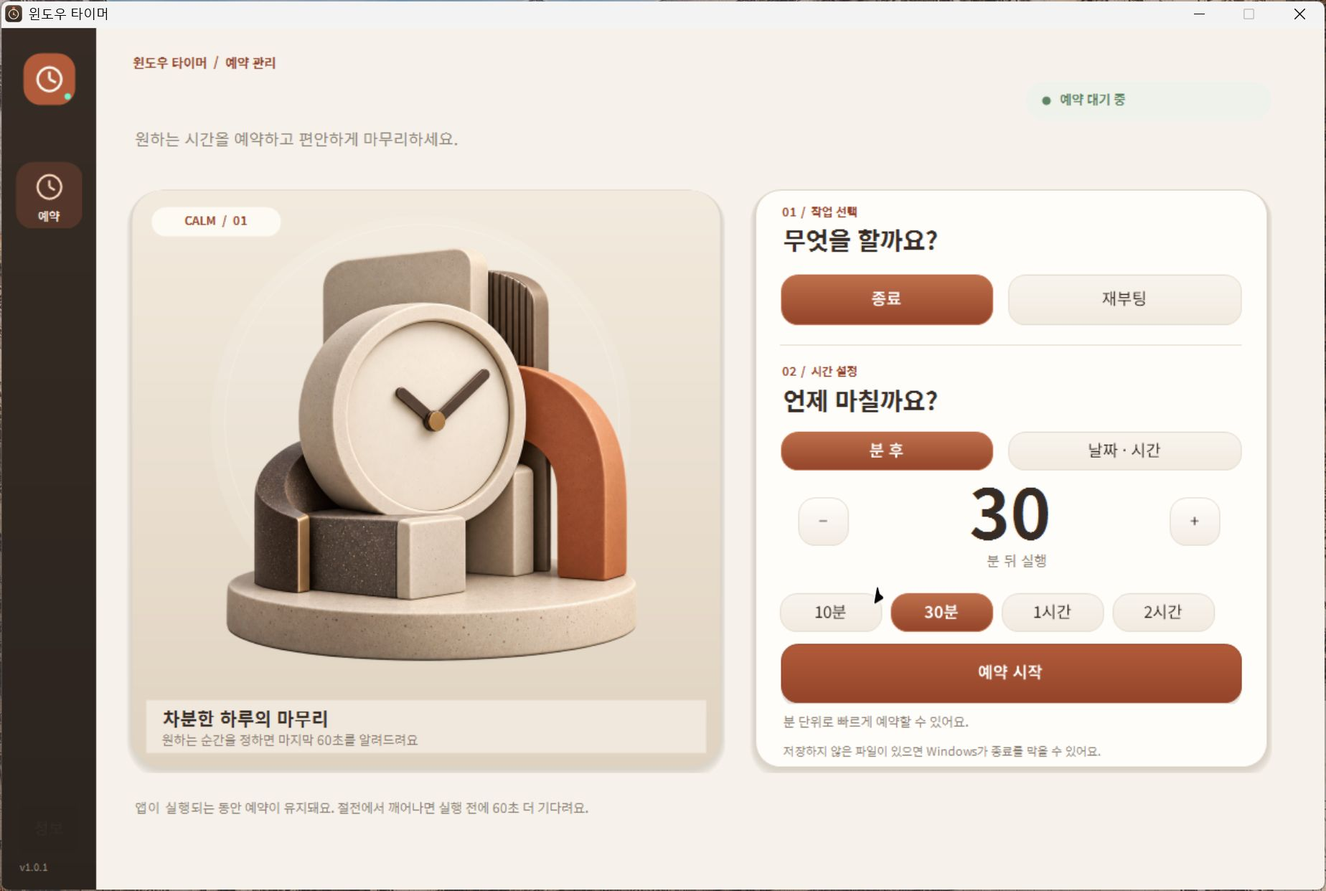
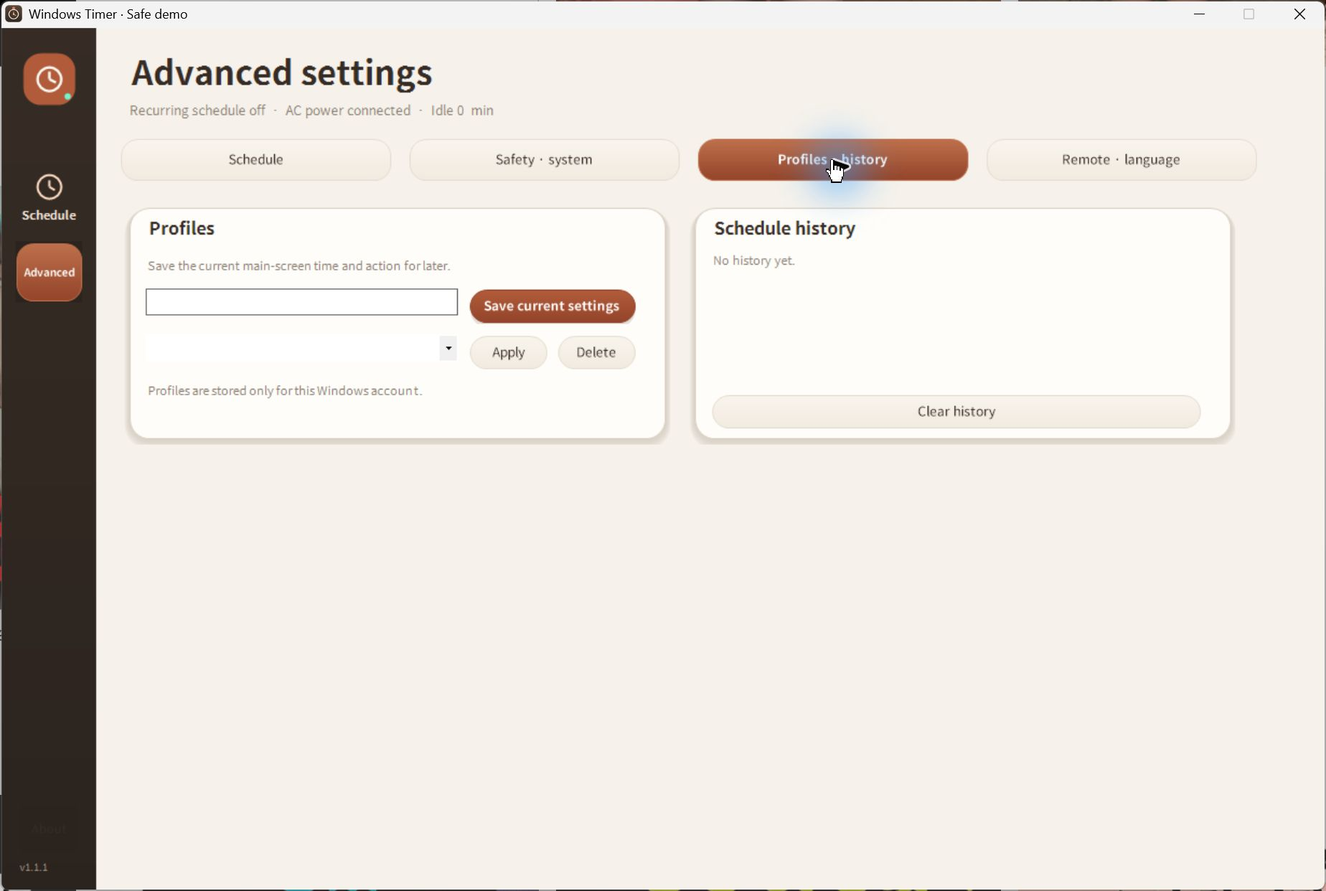
fix: align advanced setting cards

diff --git a/Program.cs b/Program.cs
@@ -136,7 +136,7 @@ namespace WindowsTimer {
    if(!Enabled){fg=Color.FromArgb(156,148,139);top=Color.FromArgb(243,239,232);bottom=top;border=Color.FromArgb(235,229,221);}
    if(primary&&!down){using(SolidBrush shadow=new SolidBrush(Color.FromArgb(38,82,50,37))){using(GraphicsPath sp=Shape.RoundRect(new Rectangle(r.X,r.Y+4,r.Width,r.Height),radius))g.FillPath(shadow,sp);}}
    using(GraphicsPath p=Shape.RoundRect(r,radius)) {using(LinearGradientBrush b=new LinearGradientBrush(r,top,bottom,90f))g.FillPath(b,p);using(Pen pen=new Pen(border,1))g.DrawPath(pen,p);}
-   Rectangle textRect=r;if(down)textRect.Offset(0,1);using(Font f=UIFont.Make(11,Selected||primary?FontStyle.Bold:FontStyle.Regular))using(SolidBrush brush=new SolidBrush(fg))using(StringFormat sf=new StringFormat()){sf.Alignment=StringAlignment.Center;sf.LineAlignment=StringAlignment.Center;sf.Trimming=StringTrimming.EllipsisCharacter;g.DrawString(Text,f,brush,textRect,sf);}
+   Rectangle textRect=r;if(down)textRect.Offset(0,1);float fontSize=Font==null?11f:Font.Size;FontStyle textStyle=Selected||primary?FontStyle.Bold:FontStyle.Regular;while(fontSize>7.5f){using(Font measure=UIFont.Make(fontSize,textStyle)){if(g.MeasureString(Text,measure).Width<=textRect.Width-12)break;}fontSize=Math.Max(7.5f,fontSize-0.5f);}using(Font f=UIFont.Make(fontSize,textStyle))using(SolidBrush brush=new SolidBrush(fg))using(StringFormat sf=new StringFormat()){sf.Alignment=StringAlignment.Center;sf.LineAlignment=StringAlignment.Center;sf.Trimming=StringTrimming.EllipsisCharacter;sf.FormatFlags=StringFormatFlags.NoWrap;g.DrawString(Text,f,brush,textRect,sf);}
    if(Focused&&ShowFocusCues){Rectangle focus=r;focus.Inflate(-5,-5);using(Pen p=new Pen(Color.FromArgb(130,Palette.Brown))){p.DashPattern=new float[]{2,2};using(GraphicsPath path=Shape.RoundRect(focus,Math.Max(4,radius-4)))g.DrawPath(p,path);}}
   }
  }
@@ -146,7 +146,7 @@ namespace WindowsTimer {
  }
 
  sealed class CardPanel : Panel {
-  public Color PanelTop=Palette.Paper, PanelBottom=Palette.Paper; public int Radius=24;
+  public Color PanelTop=Palette.Paper, PanelBottom=Palette.Paper; public int Radius=24; public string Group;
   public CardPanel(){SetStyle(ControlStyles.UserPaint|ControlStyles.AllPaintingInWmPaint|ControlStyles.OptimizedDoubleBuffer|ControlStyles.ResizeRedraw,true);BackColor=Palette.Paper;}
   protected override void OnPaintBackground(PaintEventArgs e){Graphics g=e.Graphics;g.SmoothingMode=SmoothingMode.AntiAlias;g.Clear(Palette.Canvas);Rectangle r=ClientRectangle;r.Inflate(-5,-6);for(int i=5;i>=1;i--){Rectangle sh=r;sh.Offset(0,i);sh.Inflate(i,i);using(SolidBrush b=new SolidBrush(Color.FromArgb(3+i*2,75,54,41)))using(GraphicsPath p=Shape.RoundRect(sh,Radius+i))g.FillPath(b,p);}using(GraphicsPath p=Shape.RoundRect(r,Radius))using(LinearGradientBrush b=new LinearGradientBrush(r,PanelTop,PanelBottom,90f))g.FillPath(b,p);using(GraphicsPath p=Shape.RoundRect(r,Radius))using(Pen pen=new Pen(Color.FromArgb(218,208,194),1))g.DrawPath(pen,p);}
  }
@@ -180,6 +180,7 @@ namespace WindowsTimer {
   SoftButton shutdownButton,restartButton,relativeButton,dateButton,minusButton,plusButton,p10,p30,p60,p120,mainButton,cancelButton,extendButton,infoButton,advancedNav;
   DateTimePicker datePicker; HeroPanel heroPanel; Image heroImage; NotifyIcon tray; System.Windows.Forms.Timer timer; DateTime lastTick=DateTime.Now,lastAdvancedRefresh=DateTime.MinValue;
   Panel advancedView; FlowLayoutPanel advancedFlow; Label advancedHint,historyList,remoteInfo; ComboBox repeatMode,repeatAction,languageBox,profileBox;
+  readonly List<SoftButton> advancedTabButtons=new List<SoftButton>(); string advancedTab="일정";
   DateTimePicker repeatTime; CheckBox repeatEnabled,guardBattery,requireAC,requireIdle,startWithWindows,wakeEnabled,trayCountdown,remoteEnabled;
   readonly List<CheckBox> repeatDayBoxes=new List<CheckBox>();
   NumericUpDown batteryLimit,idleMinutes,guardTimeout; TextBox presetInputs,profileName;
@@ -203,15 +204,17 @@ namespace WindowsTimer {
   CheckBox AdvCheck(Control p,string text,int x,int y,int w,int h,bool value){CheckBox c=new CheckBox{Text=T(text),Tag=text,Checked=value,Location=new Point(x,y),Size=new Size(w,h),BackColor=Color.Transparent,ForeColor=Palette.Ink,Font=UIFont.Make(9,FontStyle.Regular),FlatStyle=FlatStyle.Flat,AutoSize=false};p.Controls.Add(c);return c;}
   NumericUpDown AdvNumber(Control p,int x,int y,int w,int min,int max,int value){NumericUpDown n=new NumericUpDown{Location=new Point(x,y),Size=new Size(w,30),Minimum=min,Maximum=max,Value=Math.Max(min,Math.Min(max,value)),Font=UIFont.Make(9,FontStyle.Regular),TextAlign=HorizontalAlignment.Center,BackColor=Palette.Paper,ForeColor=Palette.Brown};p.Controls.Add(n);return n;}
   ComboBox AdvCombo(Control p,int x,int y,int w,params string[] items){ComboBox c=new ComboBox{Location=new Point(x,y),Size=new Size(w,30),DropDownStyle=ComboBoxStyle.DropDownList,Font=UIFont.Make(9,FontStyle.Regular),FlatStyle=FlatStyle.Flat,Tag=(object)items.Clone()};foreach(string item in items)c.Items.Add(item);if(c.Items.Count>0)c.SelectedIndex=0;p.Controls.Add(c);return c;}
-  CardPanel AdvCard(string title,int height){CardPanel p=new CardPanel{Size=new Size(507,height),Radius=18,Margin=new Padding(0,0,18,18),Padding=new Padding(16),BackColor=Palette.Paper};AdvLabel(p,title,20,12,450,25,12,Palette.Brown,FontStyle.Bold);return p;}
+  CardPanel AdvCard(string title,int height,string group){CardPanel p=new CardPanel{Size=new Size(507,height),Radius=18,Margin=new Padding(0,0,18,18),Padding=new Padding(16),BackColor=Palette.Paper,Group=group};AdvLabel(p,title,20,12,450,25,12,Palette.Brown,FontStyle.Bold);return p;}
   SoftButton AdvButton(Control p,string text,int x,int y,int w,EventHandler click,ButtonTone tone){SoftButton b=AddButton(p,text,x,y,w,34,tone,click);b.Font=UIFont.Make(9,FontStyle.Bold);return b;}
   void BuildAdvanced(){
    advancedView=new Panel{Location=new Point(88,0),Size=new Size(ClientSize.Width-88,ClientSize.Height),BackColor=Palette.Canvas,Visible=false,Anchor=AnchorStyles.Top|AnchorStyles.Bottom|AnchorStyles.Left|AnchorStyles.Right};Controls.Add(advancedView);
    AdvLabel(advancedView,"고급 설정",28,22,500,38,23,Palette.Brown,FontStyle.Bold);
    advancedHint=AdvLabel(advancedView,"반복 예약과 안전 조건을 설정해요. 메인 예약 화면은 현재 설정을 그대로 유지합니다.",29,62,1015,28,9,Palette.Muted,FontStyle.Regular);
-   advancedFlow=new FlowLayoutPanel{Location=new Point(22,101),Size=new Size(advancedView.Width-40,advancedView.Height-115),AutoScroll=true,WrapContents=true,FlowDirection=FlowDirection.LeftToRight,BackColor=Palette.Canvas,Padding=new Padding(4),Anchor=AnchorStyles.Top|AnchorStyles.Bottom|AnchorStyles.Left|AnchorStyles.Right};advancedView.Controls.Add(advancedFlow);
+   string[] tabGroups={"일정","보호 · 시스템","프로필 · 기록","원격 · 언어"};
+   for(int i=0;i<tabGroups.Length;i++){string group=tabGroups[i];SoftButton tab=AddButton(advancedView,group,22+i*268,101,252,42,ButtonTone.Soft,delegate{SelectAdvancedTab(group);});tab.Font=UIFont.Make(9,FontStyle.Bold);tab.AccessibleRole=AccessibleRole.PageTab;tab.AccessibleName=group;advancedTabButtons.Add(tab);}
+   advancedFlow=new FlowLayoutPanel{Location=new Point(22,157),Size=new Size(advancedView.Width-40,advancedView.Height-171),AutoScroll=true,WrapContents=true,FlowDirection=FlowDirection.LeftToRight,BackColor=Palette.Canvas,Padding=new Padding(4),Anchor=AnchorStyles.Top|AnchorStyles.Bottom|AnchorStyles.Left|AnchorStyles.Right};advancedView.Controls.Add(advancedFlow);
 
-   CardPanel recurring=AdvCard("반복 일정",220);advancedFlow.Controls.Add(recurring);
+   CardPanel recurring=AdvCard("반복 일정",220,"일정");advancedFlow.Controls.Add(recurring);
    repeatEnabled=AdvCheck(recurring,"매일 또는 선택한 요일에 반복 실행",20,48,455,28,settings.RepeatEnabled);
    repeatMode=AdvCombo(recurring,20,83,140,"매일","요일 선택");repeatMode.SelectedItem=settings.RepeatMode=="요일 선택"?"요일 선택":"매일";
    TimeSpan savedRepeatTime; if(!TimeSpan.TryParse(settings.RepeatTime,out savedRepeatTime))savedRepeatTime=new TimeSpan(23,0,0);
@@ -221,12 +224,12 @@ namespace WindowsTimer {
    AdvButton(recurring,"반복 일정 저장",20,153,455,delegate{SaveRepeat();},ButtonTone.Primary);
    AdvLabel(recurring,"다음 실행은 60초 알림과 취소 기능을 거쳐요.",20,190,455,19,8,Palette.Muted,FontStyle.Regular);
 
-   CardPanel preset=AdvCard("빠른 시간 버튼",177);advancedFlow.Controls.Add(preset);
+   CardPanel preset=AdvCard("빠른 시간 버튼",177,"일정");advancedFlow.Controls.Add(preset);
    AdvLabel(preset,"메인 화면의 네 버튼에 표시할 분 단위를 입력하세요. 예: 10, 30, 60, 120",20,46,455,34,8,Palette.Muted,FontStyle.Regular);
    presetInputs=new TextBox{Location=new Point(20,88),Size=new Size(455,34),Text=String.Join(", ",settings.Presets),Font=UIFont.Make(10,FontStyle.Regular),BorderStyle=BorderStyle.FixedSingle};preset.Controls.Add(presetInputs);
    AdvButton(preset,"빠른 시간 저장",20,132,455,delegate{SavePresets();},ButtonTone.Primary);
 
-   CardPanel conditions=AdvCard("전원 · 사용 상태 보호",246);advancedFlow.Controls.Add(conditions);
+   CardPanel conditions=AdvCard("전원 · 사용 상태 보호",246,"보호 · 시스템");advancedFlow.Controls.Add(conditions);
    guardBattery=AdvCheck(conditions,"배터리 잔량이 기준보다 낮으면 대기",20,48,310,26,settings.GuardBattery);
    batteryLimit=AdvNumber(conditions,353,47,112,5,90,settings.BatteryLimit);AdvLabel(conditions,"기준 %",469,49,24,23,8,Palette.Muted,FontStyle.Regular);
    requireAC=AdvCheck(conditions,"AC 전원이 연결되어 있을 때만 실행",20,82,455,26,settings.RequireAC);
@@ -236,21 +239,21 @@ namespace WindowsTimer {
    AdvButton(conditions,"보호 조건 저장",20,190,455,delegate{SaveConditions();},ButtonTone.Primary);
    AdvLabel(conditions,"조건을 충족하지 못하면 예약을 보류하고 제한 시간 후 취소해요.",20,222,455,18,8,Palette.Muted,FontStyle.Regular);
 
-   CardPanel system=AdvCard("Windows · 알림 설정",220);advancedFlow.Controls.Add(system);
+   CardPanel system=AdvCard("Windows · 알림 설정",220,"보호 · 시스템");advancedFlow.Controls.Add(system);
    startWithWindows=AdvCheck(system,"Windows 로그인 시 자동 실행",20,48,455,26,settings.StartWithWindows);
    wakeEnabled=AdvCheck(system,"절전 중 예약 시각에 PC 깨우기",20,82,455,26,settings.WakeEnabled);
    trayCountdown=AdvCheck(system,"작업 표시줄 아이콘에 남은 시간 표시",20,116,455,26,settings.TrayCountdown);
    AdvLabel(system,"깨우기는 PC·BIOS의 절전 타이머 지원이 필요해요.",20,149,455,22,8,Palette.Muted,FontStyle.Regular);
    AdvButton(system,"Windows 설정 저장",20,177,455,delegate{SaveSystemOptions();},ButtonTone.Primary);
 
-   CardPanel sleep=AdvCard("한 번 예약 · 다른 동작",180);advancedFlow.Controls.Add(sleep);
+   CardPanel sleep=AdvCard("한 번 예약 · 다른 동작",180,"일정");advancedFlow.Controls.Add(sleep);
    AdvLabel(sleep,"종료·재부팅 외에도 절전과 최대 절전을 예약할 수 있어요.",20,47,455,29,8,Palette.Muted,FontStyle.Regular);
    ComboBox onceAction=AdvCombo(sleep,20,83,180,"종료","재부팅","절전","최대 절전");
    NumericUpDown onceMinutes=AdvNumber(sleep,215,83,100,1,10080,30);AdvLabel(sleep,"분 뒤",323,85,80,25,8,Palette.Muted,FontStyle.Regular);
    AdvButton(sleep,"이 동작 예약",20,124,455,delegate{selectedAction=Canonical((string)onceAction.SelectedItem);minutes=(int)onceMinutes.Value;relative=true;StartJob();ShowMain();},ButtonTone.Primary);
    AdvLabel(sleep,"한 번 예약도 메인 화면에서 취소하거나 10분 연장할 수 있어요.",20,160,455,18,8,Palette.Muted,FontStyle.Regular);
 
-   CardPanel profiles=AdvCard("프로필",205);advancedFlow.Controls.Add(profiles);
+   CardPanel profiles=AdvCard("프로필",205,"프로필 · 기록");advancedFlow.Controls.Add(profiles);
    AdvLabel(profiles,"현재 메인 화면의 시간과 동작을 저장해 나중에 다시 적용해요.",20,46,455,29,8,Palette.Muted,FontStyle.Regular);
    profileName=new TextBox{Location=new Point(20,81),Size=new Size(290,30),Font=UIFont.Make(9,FontStyle.Regular),BorderStyle=BorderStyle.FixedSingle};profiles.Controls.Add(profileName);
    AdvButton(profiles,"현재 설정 저장",320,80,155,delegate{SaveProfile();},ButtonTone.Primary);
@@ -259,18 +262,18 @@ namespace WindowsTimer {
    AdvButton(profiles,"삭제",402,123,73,delegate{DeleteProfile();},ButtonTone.Soft);
    AdvLabel(profiles,"프로필은 이 Windows 사용자 계정에만 저장돼요.",20,166,455,20,8,Palette.Muted,FontStyle.Regular);
 
-   CardPanel history=AdvCard("예약 기록",226);advancedFlow.Controls.Add(history);
+   CardPanel history=AdvCard("예약 기록",226,"프로필 · 기록");advancedFlow.Controls.Add(history);
    historyList=AdvLabel(history,"아직 기록이 없어요.",20,47,455,125,8,Palette.Muted,FontStyle.Regular);historyList.TextAlign=ContentAlignment.TopLeft;
    AdvButton(history,"기록 지우기",20,178,455,delegate{settings.History.Clear();SaveSettings();RefreshHistory();},ButtonTone.Soft);RefreshHistory();
 
-   CardPanel language=AdvCard("언어 · 업데이트",177);advancedFlow.Controls.Add(language);
+   CardPanel language=AdvCard("언어 · 업데이트",177,"원격 · 언어");advancedFlow.Controls.Add(language);
    AdvLabel(language,"화면 언어",20,48,100,26,9,Palette.Ink,FontStyle.Regular);
    languageBox=AdvCombo(language,125,46,170,"한국어","English","日本語","简体中文");languageBox.SelectedItem=settings.Language;
    AdvButton(language,"언어 적용",310,45,165,delegate{settings.Language=Canonical((string)languageBox.SelectedItem);SaveSettings();ApplyLanguage();},ButtonTone.Primary);
    AdvLabel(language,"새 버전은 비공개 GitHub 릴리스에서 확인할 수 있어요.",20,88,455,25,8,Palette.Muted,FontStyle.Regular);
    AdvButton(language,"새 버전 확인",20,122,455,delegate{try{Process.Start(new ProcessStartInfo("https://github.com/cybereun/windows-timer/releases"){UseShellExecute=true});}catch{}},ButtonTone.Soft);
 
-   CardPanel remote=AdvCard("휴대폰 · 다른 PC에서 원격 예약",323);advancedFlow.Controls.Add(remote);
+   CardPanel remote=AdvCard("휴대폰 · 다른 PC에서 원격 예약",323,"원격 · 언어");advancedFlow.Controls.Add(remote);
    remoteEnabled=AdvCheck(remote,"같은 네트워크 또는 VPN에서 원격 접속 허용",20,48,455,26,settings.RemoteEnabled);
    remoteInfo=AdvLabel(remote,"원격 서버가 꺼져 있어요.",20,80,455,107,8,Palette.Muted,FontStyle.Regular);remoteInfo.TextAlign=ContentAlignment.TopLeft;
    AdvButton(remote,"첫 번째 연결 주소 복사",20,192,455,delegate{CopyRemoteAddress();},ButtonTone.Soft);
@@ -282,7 +285,9 @@ namespace WindowsTimer {
    trayCountdown.CheckedChanged+=delegate{settings.TrayCountdown=trayCountdown.Checked;SaveSettings();RefreshView(null);};
    wakeEnabled.CheckedChanged+=delegate{settings.WakeEnabled=wakeEnabled.Checked;SaveSettings();UpdateWakeTask();};
    remoteEnabled.CheckedChanged+=delegate{settings.RemoteEnabled=remoteEnabled.Checked;SaveSettings();if(settings.RemoteEnabled)StartRemoteServer(true);else{remoteServer.Stop();RefreshRemoteInfo();}};
+   SelectAdvancedTab(advancedTab);
   }
+  void SelectAdvancedTab(string group){if(String.IsNullOrEmpty(group))return;advancedTab=group;if(advancedFlow!=null){int groupHeight=0;foreach(Control c in advancedFlow.Controls){CardPanel card=c as CardPanel;if(card!=null&&card.Group==group)groupHeight=Math.Max(groupHeight,card.Height);}advancedFlow.SuspendLayout();foreach(Control c in advancedFlow.Controls){CardPanel card=c as CardPanel;if(card!=null){if(card.Group==group)card.Height=groupHeight;card.Visible=card.Group==group;}}advancedFlow.AutoScrollPosition=new Point(0,0);advancedFlow.ResumeLayout(true);}foreach(SoftButton tab in advancedTabButtons){bool selected=tab.Tag as string==group;tab.Selected=selected;tab.AccessibleName=tab.Text;}}
   void ShowMain(){showingAdvanced=false;advancedView.Visible=false;foreach(Control c in mainContent)c.Visible=true;advancedNav.Selected=false;InvalidateNavigation();}
   void ShowAdvanced(){showingAdvanced=true;foreach(Control c in mainContent)c.Visible=false;advancedView.Visible=true;advancedView.BringToFront();advancedNav.Selected=true;RefreshAdvancedStatus();RefreshRemoteInfo();InvalidateNavigation();}
   void InvalidateNavigation(){if(advancedNav!=null)advancedNav.Invalidate();foreach(Control c in Controls)InvalidateNavigationChild(c);}
@@ -314,7 +319,7 @@ namespace WindowsTimer {
    Panel nav=new Panel{Location=new Point(13,124),Size=new Size(62,62),BackColor=Color.Transparent,Cursor=Cursors.Hand,AccessibleName="예약"};nav.Paint+=delegate(object s,PaintEventArgs e){Graphics g=e.Graphics;g.SmoothingMode=SmoothingMode.AntiAlias;using(GraphicsPath p=Shape.RoundRect(new Rectangle(0,0,62,62),16))using(SolidBrush b=new SolidBrush(showingAdvanced?Color.Transparent:Color.FromArgb(64,Palette.Clay)))g.FillPath(b,p);using(Pen p=new Pen(Color.FromArgb(255,218,194),2f)){g.DrawEllipse(p,20,12,22,22);g.DrawLine(p,31,17,31,23);g.DrawLine(p,31,23,36,26);}using(Font f=UIFont.Make(8,FontStyle.Bold))using(SolidBrush b=new SolidBrush(Color.FromArgb(250,232,218)))using(StringFormat sf=new StringFormat()){sf.Alignment=StringAlignment.Center;sf.LineAlignment=StringAlignment.Far;g.DrawString(T("예약"),f,b,new RectangleF(0,0,62,59),sf);}};nav.Click+=delegate{ShowMain();};nav.MouseClick+=delegate{ShowMain();};rail.Controls.Add(nav);
    advancedNav=AddButton(rail,"고급",13,198,62,57,ButtonTone.Soft,delegate{ShowAdvanced();});advancedNav.Font=UIFont.Make(8,FontStyle.Bold);advancedNav.ForeColor=Color.FromArgb(250,232,218);
    infoButton=AddButton(rail,"정보",18,ClientSize.Height-79,52,44,ButtonTone.Quiet,delegate{ShowAbout();});infoButton.Anchor=AnchorStyles.Bottom|AnchorStyles.Left;infoButton.ForeColor=Color.FromArgb(240,225,211);infoButton.Font=UIFont.Make(9,FontStyle.Regular);
-   AddLabel(rail,"v1.1.0",15,ClientSize.Height-31,58,18,7,Color.FromArgb(157,144,132),FontStyle.Regular).Anchor=AnchorStyles.Bottom|AnchorStyles.Left;
+   AddLabel(rail,"v1.1.1",15,ClientSize.Height-31,58,18,7,Color.FromArgb(157,144,132),FontStyle.Regular).Anchor=AnchorStyles.Bottom|AnchorStyles.Left;
    AddLabel(this,"윈도우 타이머  /  예약 관리",120,24,560,18,9,Palette.ClayDark,FontStyle.Bold);
    headline=AddLabel(this,"하루의 끝을, 차분하게.",120,45,630,43,26,Palette.Brown,FontStyle.Bold);
    subhead=AddLabel(this,"원하는 시간을 예약하고 편안하게 마무리하세요.",122,91,660,25,11,Palette.Muted,FontStyle.Regular);
@@ -351,7 +356,7 @@ namespace WindowsTimer {
   string T(string ko){if(settings==null||settings.Language=="한국어")return ko;Dictionary<string,string[]> d=Translations.Data;string[] v;if(d.TryGetValue(ko,out v)){int i=settings.Language=="English"?0:settings.Language=="日本語"?1:2;return v[i];}if(ko.EndsWith("분")){string n=ko.Substring(0,ko.Length-1);return settings.Language=="English"?n+" min":settings.Language=="日本語"?n+"分":n+"分钟";}if(ko.EndsWith("시간")){string n=ko.Substring(0,ko.Length-2);return settings.Language=="English"?n+" hr":settings.Language=="日本語"?n+"時間":n+"小时";}return ko;}
   internal static string Canonical(string value){if(value==null)return null;foreach(KeyValuePair<string,string[]> p in Translations.Data){if(value==p.Key||Array.IndexOf(p.Value,value)>=0)return p.Key;}return value;}
   void TranslateControls(Control parent){foreach(Control c in parent.Controls){if(c.Tag is string)c.Text=T((string)c.Tag);if(c is ComboBox&&c.Tag is string[]){ComboBox box=(ComboBox)c;int index=box.SelectedIndex;string[] canon=(string[])box.Tag;box.Items.Clear();foreach(string item in canon)box.Items.Add(T(item));if(index>=0&&index<box.Items.Count)box.SelectedIndex=index;}TranslateControls(c);}}
-  void ApplyLanguage(){Translations.CurrentLanguage=settings.Language;TranslateControls(this);if(advancedView!=null)TranslateControls(advancedView);if(advancedNav!=null)advancedNav.Text=T("고급");if(p10!=null){p10.Text=T(PresetText(settings.Presets[0]));p30.Text=T(PresetText(settings.Presets[1]));p60.Text=T(PresetText(settings.Presets[2]));p120.Text=T(PresetText(settings.Presets[3]));}if(datePicker!=null)datePicker.CustomFormat=settings.Language=="English"?"yyyy-MM-dd   HH:mm":settings.Language=="日本語"?"yyyy年 MM月 dd日   HH:mm":settings.Language=="简体中文"?"yyyy年 MM月 dd日   HH:mm":"yyyy년 MM월 dd일   HH:mm";if(historyList!=null)RefreshHistory();RefreshRemoteInfo();lastAdvancedRefresh=DateTime.MinValue;RefreshAdvancedStatus();Text=T("윈도우 타이머")+(demo?" · "+T("안전 데모"):"");if(heroPanel!=null)heroPanel.Invalidate();RefreshView(null);Invalidate(true);}
+  void ApplyLanguage(){Translations.CurrentLanguage=settings.Language;TranslateControls(this);if(advancedView!=null){TranslateControls(advancedView);SelectAdvancedTab(advancedTab);}if(advancedNav!=null)advancedNav.Text=T("고급");if(p10!=null){p10.Text=T(PresetText(settings.Presets[0]));p30.Text=T(PresetText(settings.Presets[1]));p60.Text=T(PresetText(settings.Presets[2]));p120.Text=T(PresetText(settings.Presets[3]));}if(datePicker!=null)datePicker.CustomFormat=settings.Language=="English"?"yyyy-MM-dd   HH:mm":settings.Language=="日本語"?"yyyy年 MM月 dd日   HH:mm":settings.Language=="简体中文"?"yyyy年 MM月 dd日   HH:mm":"yyyy년 MM월 dd일   HH:mm";if(historyList!=null)RefreshHistory();RefreshRemoteInfo();lastAdvancedRefresh=DateTime.MinValue;RefreshAdvancedStatus();Text=T("윈도우 타이머")+(demo?" · "+T("안전 데모"):"");if(heroPanel!=null)heroPanel.Invalidate();RefreshView(null);Invalidate(true);}
   Schedule CurrentSchedule(){return job.Due.HasValue?job:(repeatJob.Due.HasValue?repeatJob:null);}
   bool CurrentIsRepeat(){return !job.Due.HasValue&&repeatJob.Due.HasValue;}
   void RefreshView(string message){Schedule current=CurrentSchedule();bool active=current!=null;shutdownButton.Selected=selectedAction=="종료";restartButton.Selected=selectedAction=="재부팅";relativeButton.Selected=relative;dateButton.Selected=!relative;
@@ -369,7 +374,7 @@ namespace WindowsTimer {
   void StartJob(){try{DateTime now=DateTime.Now;DateTime due=relative?now.AddMinutes(minutes):datePicker.Value;job.Start(now,due,selectedAction);lastTick=now;AddHistory("일회 예약 · "+selectedAction+" · "+due.ToString("yyyy-MM-dd HH:mm"));UpdateWakeTask();RefreshView(null);}catch(ArgumentException e){MessageBox.Show(this,T(e.Message),T("시간을 확인해 주세요"),MessageBoxButtons.OK,MessageBoxIcon.Information);}}
   void Reveal(){Show();WindowState=FormWindowState.Normal;Activate();}
   void ExitApp(){if((job.Due.HasValue||repeatJob.Due.HasValue)&&MessageBox.Show(this,T("앱을 끝내면 현재 예약도 취소돼요. 종료할까요?"),T("예약 취소 및 앱 종료"),MessageBoxButtons.YesNo,MessageBoxIcon.Question)!=DialogResult.Yes)return;job.Cancel();repeatJob.Cancel();exiting=true;Close();}
-  void ShowAbout(){using(Form f=new Form()){f.Text=T("윈도우 타이머 정보");f.ClientSize=new Size(410,270);f.FormBorderStyle=FormBorderStyle.FixedDialog;f.MaximizeBox=false;f.MinimizeBox=false;f.StartPosition=FormStartPosition.CenterParent;f.BackColor=Palette.Canvas;f.Font=UIFont.Make(10,FontStyle.Regular);f.Icon=Icon;AddLabel(f,T("윈도우 타이머"),26,22,350,40,22,Palette.Brown,FontStyle.Bold);string aboutText=T("종료·재부팅·절전 예약과 반복 일정, 전원 보호, 프로필, 원격 예약을 지원합니다.")+"\n\n"+T("버전")+" 1.1.0  ·  "+T("개발자")+" Lebi (@cybereun)";AddLabel(f,aboutText,28,78,350,94,10,Palette.Muted,FontStyle.Regular);SoftButton b=new SoftButton(T("닫기"),ButtonTone.Primary){Location=new Point(27,205),Size=new Size(356,42)};b.Click+=delegate{f.Close();};f.Controls.Add(b);f.ShowDialog(this);}}
+  void ShowAbout(){using(Form f=new Form()){f.Text=T("윈도우 타이머 정보");f.ClientSize=new Size(410,270);f.FormBorderStyle=FormBorderStyle.FixedDialog;f.MaximizeBox=false;f.MinimizeBox=false;f.StartPosition=FormStartPosition.CenterParent;f.BackColor=Palette.Canvas;f.Font=UIFont.Make(10,FontStyle.Regular);f.Icon=Icon;AddLabel(f,T("윈도우 타이머"),26,22,350,40,22,Palette.Brown,FontStyle.Bold);string aboutText=T("종료·재부팅·절전 예약과 반복 일정, 전원 보호, 프로필, 원격 예약을 지원합니다.")+"\n\n"+T("버전")+" 1.1.1  ·  "+T("개발자")+" Lebi (@cybereun)";AddLabel(f,aboutText,28,78,350,94,10,Palette.Muted,FontStyle.Regular);SoftButton b=new SoftButton(T("닫기"),ButtonTone.Primary){Location=new Point(27,205),Size=new Size(356,42)};b.Click+=delegate{f.Close();};f.Controls.Add(b);f.ShowDialog(this);}}
   void CancelCurrent(){if(job.Due.HasValue){job.Cancel();AddHistory("예약 취소");RefreshView("예약을 취소했어요");}else if(repeatJob.Due.HasValue){repeatJob.Cancel();AddHistory("다가오는 반복 실행 취소");ScheduleNextRepeat(DateTime.Now);RefreshView("이번 반복 실행을 취소했어요");}UpdateWakeTask();}
   void ExtendCurrent(){Schedule current=CurrentSchedule();if(current==null)return;current.Extend();AddHistory("예약을 10분 연장");UpdateWakeTask();RefreshView("예약을 10분 연장했어요");}
   void TickJob(){DateTime now=DateTime.Now;bool resumed=(now-lastTick).TotalSeconds>5;lastTick=now;ProcessSchedule(job,false,now,resumed);ProcessSchedule(repeatJob,true,now,resumed);if(number!=null&&CurrentSchedule()!=null)number.Text=FormatTime(CurrentSchedule().Due.Value-now);RefreshAdvancedStatus();}
@@ -406,6 +411,12 @@ namespace WindowsTimer {
    {"윈도우 타이머",new string[]{"Windows Timer","Windows Timer","Windows Timer"}},{"예약됨 ·",new string[]{"Scheduled ·","予約済み ·","已预约 ·"}},{"반복 예약 ·",new string[]{"Recurring ·","繰り返し ·","重复 ·"}},{"남은 시간",new string[]{"Time remaining","残り時間","剩余时间"}},{"선택한 날짜와 시간에 실행",new string[]{"Run at the selected date and time","指定した日時に実行","在选定日期和时间执行"}},{"분 단위로 빠르게 예약할 수 있어요.",new string[]{"Schedule quickly by minutes.","分単位ですばやく予約できます。","可以按分钟快速预约。"}},{"오늘부터 7일 안의 시간을 지정할 수 있어요.",new string[]{"Choose a time within the next 7 days.","今日から7日以内の時刻を指定できます。","可以指定未来7天内的时间。"}},{"실행 예정",new string[]{"scheduled","実行予定","执行"}},{"실행 전에 60초 안내를 표시해요.",new string[]{"A 60-second warning appears before the action.","実行前に60秒の通知を表示します。","执行前会显示60秒提醒。"}},{"저장하지 않은 파일이 있으면 Windows가 종료를 막을 수 있어요.",new string[]{"Windows may block shutdown if files are unsaved.","未保存のファイルがあるとWindowsが終了を止める場合があります。","如果有未保存的文件，Windows 可能会阻止关机。"}},{"닫기",new string[]{"Close","閉じる","关闭"}},{"윈도우 타이머 정보",new string[]{"About Windows Timer","Windows Timerについて","关于 Windows Timer"}},{"반복 일정 저장",new string[]{"Save recurring schedule","繰り返し予約を保存","保存重复计划"}},{"다음 실행은 60초 알림과 취소 기능을 거쳐요.",new string[]{"A 60-second warning and cancellation are available before each run.","毎回、実行前に60秒の通知と取り消しができます。","每次执行前都会提供60秒提醒和取消机会。"}},{"깨우기는 PC·BIOS의 절전 타이머 지원이 필요해요.",new string[]{"Wake timers must be supported by the PC and BIOS.","PCとBIOSがスリープ解除タイマーに対応している必要があります。","电脑和 BIOS 必须支持唤醒定时器。"}},{"한 번 예약도 메인 화면에서 취소하거나 10분 연장할 수 있어요.",new string[]{"One-time schedules can be canceled or extended by 10 minutes on the main screen.","1回予約もメイン画面から取り消すか10分延長できます。","单次预约也可以在主界面取消或延长10分钟。"}},{"새 버전은 비공개 GitHub 릴리스에서 확인할 수 있어요.",new string[]{"Check new versions on the private GitHub releases page.","新しいバージョンは非公開GitHubリリースで確認できます。","可在私有 GitHub Releases 页面查看新版本。"}},
     {"반복 예약 꺼짐",new string[]{"Recurring schedule off","繰り返し予約はオフ","重复计划已关闭"}},{"반복 예약 사용 중",new string[]{"Recurring schedule on","繰り返し予約を使用中","重复计划已启用"}},{"다음 반복",new string[]{"Next run","次回","下次执行"}},{"AC 전원 연결",new string[]{"AC power connected","AC電源に接続","已连接交流电源"}},{"배터리 잔량",new string[]{"Battery","バッテリー","电量"}},{"배터리 잔량 알 수 없음",new string[]{"Battery level unavailable","バッテリー残量を確認できません","无法读取电量"}},{"전원 상태 알 수 없음",new string[]{"Power status unavailable","電源状態を確認できません","无法读取电源状态"}},{"유휴",new string[]{"Idle","アイドル","空闲"}},{"프로필 이름을 입력해 주세요.",new string[]{"Enter a profile name.","プロファイル名を入力してください。","请输入配置名称。"}},{"프로필의 날짜가 지났거나 예약 가능 범위를 벗어났어요.",new string[]{"The profile date has passed or is outside the scheduling window.","プロファイルの日付が過ぎたか、予約可能な範囲外です。","配置日期已过或超出可预约范围。"}},{"반복 일정을 저장했어요.",new string[]{"Recurring schedule saved.","繰り返し予約を保存しました。","重复计划已保存。"}},{"반복 일정을 저장했어요. 사용하려면 반복 예약을 켜 주세요.",new string[]{"Recurring settings saved. Turn on the recurring schedule to use them.","繰り返し設定を保存しました。使用するには繰り返し予約をオンにしてください。","重复设置已保存。请启用重复计划以使用。"}},{"첫 번째 연결 주소 복사",new string[]{"Copy first connection address","最初の接続先をコピー","复制第一个连接地址"}},{"모든 기기 연결 해제 · 코드 재발급",new string[]{"Disconnect all devices · renew code","全端末を解除・コードを再発行","断开所有设备 · 重新生成代码"}},{"원격 서버가 꺼져 있어요.",new string[]{"Remote access is off.","リモート接続はオフです。","远程访问已关闭。"}},{"휴대폰 브라우저에 현재 연결된 네트워크 주소를 입력하세요.",new string[]{"Open one of these network addresses in your phone browser.","スマホのブラウザーで次のネットワークアドレスを開いてください。","在手机浏览器中打开以下网络地址。"}},{"연결 코드",new string[]{"Pairing code","接続コード","配对码"}},{"분 유효",new string[]{"minutes","分間有効","分钟有效"}},{"외",new string[]{"and","ほか","另有"}},{"개 주소",new string[]{"addresses","件のアドレス","个地址"}},{"원격 서버를 사용할 수 없어요.",new string[]{"Remote server is unavailable.","リモートサーバーを利用できません。","远程服务器不可用。"}},{"데모에서는 실제 원격 서버를 시작하지 않아요.",new string[]{"The demo does not start a real remote server.","デモでは実際のリモートサーバーを起動しません。","演示模式不会启动真实远程服务器。"}},{"같은 네트워크 또는 VPN에서 원격 접속 허용",new string[]{"Allow remote access on LAN or VPN","LANまたはVPNからのアクセスを許可","允许通过局域网或 VPN 远程访问"}},{"외부 접속은 기기 간 VPN 연결이 필요해요. 공용 Wi-Fi에서는 사용하지 마세요.",new string[]{"For access from outside, connect both devices to a VPN. Use trusted Wi-Fi on a LAN.","外部接続には両方の端末でVPNが必要です。LANでは信頼できるWi-Fiを使用してください。","外部连接需要两台设备连接同一 VPN。局域网连接请使用可信 Wi-Fi。"}},{"LAN은 암호화되지 않으므로 신뢰할 수 있는 사설망에서만 사용하세요. 외부에서는 두 기기를 VPN에 연결하세요.",new string[]{"LAN traffic is not encrypted. Use only a trusted private network; connect both devices through a VPN for internet access.","LAN通信は暗号化されません。信頼できるプライベートネットワークのみで使用し、外部接続では両方の端末をVPNに接続してください。","局域网通信未加密。请仅在可信的专用网络中使用；通过互联网访问时，请让两台设备连接 VPN。"}},{"곧 Windows ",new string[]{"Windows will soon ","まもなくWindowsが","Windows 即将"}},{"돼요 · 지금 취소할 수 있어요",new string[]{" · you can cancel now","します · 今すぐ取り消せます"," · 现在可以取消"}},{"실행 60초 전이에요. 원하지 않으면 예약을 취소해 주세요.",new string[]{"The action is due in 60 seconds. Cancel the schedule if you changed your mind.","実行まで60秒です。中止する場合は予約を取り消してください。","还有 60 秒执行。如需取消，请取消预约。"}},{"예정",new string[]{"scheduled","予定","即将执行"}},{"보호 조건 대기 중",new string[]{"Waiting for safeguards","保護条件を確認中","正在等待保护条件"}},{"보호 조건을 충족하지 않아 예약을 취소했어요",new string[]{"The schedule was canceled because its safeguards were not met.","保護条件を満たさなかったため、予約を取り消しました。","未满足保护条件，已取消预约。"}},{"예약을 취소했어요",new string[]{"Schedule canceled.","予約を取り消しました。","预约已取消。"}},{"이번 반복 실행을 취소했어요",new string[]{"Canceled this occurrence.","今回の実行を取り消しました。","已取消本次执行。"}},{"예약을 10분 연장했어요",new string[]{"Schedule extended by 10 minutes.","予約を10分延長しました。","预约已延长 10 分钟。"}},{"데모 완료 · 실제 종료 명령은 실행하지 않았어요",new string[]{"Demo complete · no Windows power command was issued.","デモが完了しました · Windowsへの電源命令は実行していません。","演示完成 · 未执行任何 Windows 电源命令。"}},{"시간을 확인해 주세요",new string[]{"Check the time","時刻を確認してください","请检查时间"}},{"현재보다 뒤의 시간을 선택해 주세요.",new string[]{"Choose a time in the future.","現在より後の時刻を選択してください。","请选择未来的时间。"}},{"원격 연결을 시작하지 못했어요.",new string[]{"Could not start remote access.","リモート接続を開始できませんでした。","无法启动远程访问。"}},{"사설 Wi-Fi 또는 VPN 연결을 확인해 주세요.",new string[]{"Check your private Wi-Fi or VPN connection.","プライベートWi-FiまたはVPN接続を確認してください。","请检查专用 Wi-Fi 或 VPN 连接。"}},{"기준 %",new string[]{"Limit %","基準 %","阈值 %"}},{"유휴 분",new string[]{"Idle minutes","アイドル時間（分）","空闲分钟数"}},{"최대 대기 분",new string[]{"Maximum wait (min)","最大待機時間（分）","最长等待（分钟）"}},{"조건을 충족하지 못하면 예약을 보류하고 제한 시간 후 취소해요.",new string[]{"If safeguards are not met, the schedule waits and is canceled after the limit.","条件を満たさない場合は予約を保留し、制限時間後に取り消します。","如果未满足保护条件，预约将等待并在超时后取消。"}},{"종료·재부팅 외에도 절전과 최대 절전을 예약할 수 있어요.",new string[]{"You can also schedule sleep and hibernate.","シャットダウン・再起動のほか、スリープと休止状態を予約できます。","除关机和重启外，还可预约睡眠和休眠。"}},{"프로필은 이 Windows 사용자 계정에만 저장돼요.",new string[]{"Profiles are stored only for this Windows account.","プロファイルはこのWindowsユーザーアカウントにのみ保存されます。","配置仅保存在当前 Windows 用户账户中。"}},{"창 열기",new string[]{"Open window","ウィンドウを開く","打开窗口"}},{"앱 종료",new string[]{"Exit app","アプリを終了","退出应用"}},{"예약을 유지하고 있어요. 트레이 메뉴에서 취소할 수 있어요.",new string[]{"The schedule is still active. Cancel it from the tray menu.","予約は維持されています。トレイメニューから取り消せます。","预约仍在运行。可从托盘菜单取消。"}},{"트레이 아이콘에서 다시 열거나 종료할 수 있어요.",new string[]{"Reopen or exit from the tray icon.","トレイアイコンから再表示または終了できます。","可从托盘图标重新打开或退出。"}},{"앱을 끝내면 현재 예약도 취소돼요. 종료할까요?",new string[]{"Exiting the app will cancel active schedules. Exit anyway?","アプリを終了すると予約も取り消されます。終了しますか？","退出应用也会取消当前预约。仍要退出吗？"}},{"예약 취소 및 앱 종료",new string[]{"Cancel schedules and exit","予約を取り消して終了","取消预约并退出"}},{"종료·재부팅·절전 예약과 반복 일정, 전원 보호, 프로필, 원격 예약을 지원합니다.",new string[]{"Schedule shutdown, restart, sleep, hibernate, recurring actions, safeguards, profiles, and remote actions.","シャットダウン・再起動・スリープ・休止状態、繰り返し予約、保護条件、プロファイル、リモート予約に対応します。","支持预约关机、重启、睡眠、休眠、重复计划、保护条件、配置和远程预约。"}},{"버전",new string[]{"Version","バージョン","版本"}},{"개발자",new string[]{"Developer","開発者","开发者"}},{"일회 예약",new string[]{"One-time schedule","1回予約","单次预约"}},{"원격 예약",new string[]{"Remote schedule","リモート予約","远程预约"}},{"실행",new string[]{"Run","実行","执行"}},{"실행 실패",new string[]{"Run failed","実行失敗","执行失败"}},{"보호 조건 미충족으로 취소",new string[]{"Canceled by safeguards","保護条件により取り消し","因保护条件未满足而取消"}},{"다가오는 반복 실행 취소",new string[]{"Canceled the next recurring run","次回の繰り返し実行を取り消し","已取消下一次重复执行"}},{"원격에서 예약 취소",new string[]{"Canceled remotely","リモートから予約を取り消し","已从远程取消预约"}},{"전원 상태 확인 불가",new string[]{"Power status unavailable","電源状態を確認できません","无法读取电源状态"}},{"AC 전원 미연결",new string[]{"AC power is not connected","AC電源に接続されていません","未连接交流电源"}},{"배터리 잔량 기준 미달",new string[]{"Battery is below the limit","バッテリー残量が基準未満","电量低于阈值"}},{"사용자 입력 감지",new string[]{"User input detected","ユーザー入力を検出","检测到用户输入"}},{"Windows에 ",new string[]{"Windows ","Windowsに","Windows"}},{"를 요청했어요",new string[]{" request sent.","に要求しました。","已发送请求。"}},{"안전 데모",new string[]{"Safe demo","安全デモ","安全演示"}},{"차분한 하루의 마무리",new string[]{"End your day calmly.","一日を穏やかに。","让一天平静地结束。"}},{"원하는 순간을 정하면 마지막 60초를 알려드려요",new string[]{"Choose a time; we will warn you 60 seconds before.","時刻を決めると、60秒前にお知らせします。","设定时间后，我们会在执行前60秒提醒。"}}
   };
+  static Translations(){
+   Data.Add("일정",new string[]{"Schedule","スケジュール","日程"});
+   Data.Add("보호 · 시스템",new string[]{"Safety · system","保護・システム","保护 · 系统"});
+   Data.Add("프로필 · 기록",new string[]{"Profiles · history","プロファイル・履歴","配置 · 记录"});
+   Data.Add("원격 · 언어",new string[]{"Remote · language","リモート・言語","远程 · 语言"});
+  }
   public static string Get(string korean,string language){if(String.IsNullOrEmpty(language)||language=="한국어")return korean;string[] value;if(Data.TryGetValue(korean,out value))return value[language=="English"?0:language=="日本語"?1:2];return korean;}
  }
 
@@ -415,6 +426,6 @@ namespace WindowsTimer {
  static class Tests {
   static int checks;
   static void Check(bool value,string message){checks++;if(!value)throw new Exception(message);}
-  public static int Run(){try{checks=0;DateTime now=new DateTime(2026,10,21,12,0,0);Schedule s=new Schedule();bool rejected=false;try{s.Start(now,now,"종료");}catch(ArgumentException){rejected=true;}Check(rejected,"past rejected");bool invalidActionRejected=false;try{s.Start(now,now.AddMinutes(1),"unknown");}catch(ArgumentException){invalidActionRejected=true;}Check(invalidActionRejected,"unsupported action rejected");s.Start(now,now.AddMinutes(2),"종료");Check(s.Tick(now,false)==0,"not early");Check(s.Tick(now.AddMinutes(1),false)==1,"warning");Check(s.Tick(now.AddSeconds(119),false)==0,"not due");Check(s.Tick(now.AddMinutes(2),false)==2,"due");s.Cancel();Check(s.Tick(now.AddHours(1),false)==0,"cancel");s.Start(now,now.AddMinutes(2),"재부팅");s.Tick(now.AddMinutes(1),false);s.Extend();Check(!s.Warned&&s.Due==now.AddMinutes(12),"extend resets warning");Check(s.Tick(now.AddHours(1),true)==1&&s.Due==now.AddHours(1).AddSeconds(60),"resume grace");s.Cancel();s.Start(now,now.AddMinutes(2),"종료");Check(s.Tick(now.AddMinutes(1),false)==1,"defer warning");s.Defer(now.AddMinutes(7));Check(!s.Warned&&s.Tick(now.AddMinutes(6),false)==1,"defer resets warning");s.Cancel();s.Start(now,now.AddMinutes(2),"종료");Check(!s.GuardTimedOut(now,10),"guard wait begins");s.Defer(now.AddMinutes(5));Check(!s.GuardTimedOut(now.AddMinutes(5),10),"guard wait survives deferral");Check(s.GuardTimedOut(now.AddMinutes(11),10),"guard timeout");s.ClearGuardWait();Check(!s.GuardTimedOut(now.AddMinutes(30),10),"guard wait resets when conditions recover");s.Cancel();DateTime monday=new DateTime(2026,10,26,8,0,0);Check(Schedule.NextOccurrence(monday,"매일","23:00",null)==new DateTime(2026,10,26,23,0,0),"daily next occurrence");Check(Schedule.NextOccurrence(new DateTime(2026,10,26,23,1,0),"매일","23:00",null)==new DateTime(2026,10,27,23,0,0),"daily rollover");Check(Schedule.NextOccurrence(monday,"요일 선택","07:00",new int[]{2})==new DateTime(2026,10,27,7,0,0),"weekday next occurrence");Check(!Schedule.NextOccurrence(monday,"요일 선택","09:00",new int[0]).HasValue,"empty weekdays rejected");s.Start(now,now.AddSeconds(10),"종료");Check(s.Tick(now,false)==1,"short warning");Check(s.Tick(now.AddSeconds(10),false)==2,"short due");Check(SettingsStore.UnprotectToken(SettingsStore.ProtectToken("safe-test-token"))=="safe-test-token","per-user token protection roundtrip");Check(Translations.Data.Count>80,"translation catalog loads");Check(Translations.Get("예약 시작","English")=="Schedule","English UI translation");Check(Translations.Get("안전 데모","English")=="Safe demo","safe demo title translation");Check(MainForm.Canonical("Sleep")=="절전","English sleep action mapping");Check(MainForm.Canonical("休眠")=="최대 절전","Chinese hibernate action mapping");Check(MainForm.Canonical("Shut down")=="종료","English shutdown action mapping");string originalSettingsPath=SettingsStore.DirectoryPath;string testSettingsPath=Path.Combine(Path.GetTempPath(),"WindowsTimerSelfTest-"+Guid.NewGuid().ToString("N"));try{SettingsStore.DirectoryPath=testSettingsPath;AppSettings stored=new AppSettings();stored.RemoteTokens.Add("safe-test-token");SettingsStore.Save(stored);string json=File.ReadAllText(Path.Combine(testSettingsPath,"settings.json"));Check(json.Contains("dpapi:")&&!json.Contains("safe-test-token"),"remote token encrypted at rest");Check(SettingsStore.Load().RemoteTokens.Count==1&&SettingsStore.Load().RemoteTokens[0]=="safe-test-token","encrypted remote token settings roundtrip");}finally{SettingsStore.DirectoryPath=originalSettingsPath;if(testSettingsPath.StartsWith(Path.GetTempPath(),StringComparison.OrdinalIgnoreCase)&&Directory.Exists(testSettingsPath))Directory.Delete(testSettingsPath,true);}File.WriteAllText(Path.Combine(AppDomain.CurrentDomain.BaseDirectory,"test-results.txt"),"PASS: "+checks+" scheduling, guard, recurrence, localization, and token-storage checks. No shutdown commands executed.\r\n");return 0;}catch(Exception ex){File.WriteAllText(Path.Combine(AppDomain.CurrentDomain.BaseDirectory,"test-results.txt"),"FAIL after "+checks+" checks: "+ex);return 1;}}
+  public static int Run(){try{checks=0;DateTime now=new DateTime(2026,10,21,12,0,0);Schedule s=new Schedule();bool rejected=false;try{s.Start(now,now,"종료");}catch(ArgumentException){rejected=true;}Check(rejected,"past rejected");bool invalidActionRejected=false;try{s.Start(now,now.AddMinutes(1),"unknown");}catch(ArgumentException){invalidActionRejected=true;}Check(invalidActionRejected,"unsupported action rejected");s.Start(now,now.AddMinutes(2),"종료");Check(s.Tick(now,false)==0,"not early");Check(s.Tick(now.AddMinutes(1),false)==1,"warning");Check(s.Tick(now.AddSeconds(119),false)==0,"not due");Check(s.Tick(now.AddMinutes(2),false)==2,"due");s.Cancel();Check(s.Tick(now.AddHours(1),false)==0,"cancel");s.Start(now,now.AddMinutes(2),"재부팅");s.Tick(now.AddMinutes(1),false);s.Extend();Check(!s.Warned&&s.Due==now.AddMinutes(12),"extend resets warning");Check(s.Tick(now.AddHours(1),true)==1&&s.Due==now.AddHours(1).AddSeconds(60),"resume grace");s.Cancel();s.Start(now,now.AddMinutes(2),"종료");Check(s.Tick(now.AddMinutes(1),false)==1,"defer warning");s.Defer(now.AddMinutes(7));Check(!s.Warned&&s.Tick(now.AddMinutes(6),false)==1,"defer resets warning");s.Cancel();s.Start(now,now.AddMinutes(2),"종료");Check(!s.GuardTimedOut(now,10),"guard wait begins");s.Defer(now.AddMinutes(5));Check(!s.GuardTimedOut(now.AddMinutes(5),10),"guard wait survives deferral");Check(s.GuardTimedOut(now.AddMinutes(11),10),"guard timeout");s.ClearGuardWait();Check(!s.GuardTimedOut(now.AddMinutes(30),10),"guard wait resets when conditions recover");s.Cancel();DateTime monday=new DateTime(2026,10,26,8,0,0);Check(Schedule.NextOccurrence(monday,"매일","23:00",null)==new DateTime(2026,10,26,23,0,0),"daily next occurrence");Check(Schedule.NextOccurrence(new DateTime(2026,10,26,23,1,0),"매일","23:00",null)==new DateTime(2026,10,27,23,0,0),"daily rollover");Check(Schedule.NextOccurrence(monday,"요일 선택","07:00",new int[]{2})==new DateTime(2026,10,27,7,0,0),"weekday next occurrence");Check(!Schedule.NextOccurrence(monday,"요일 선택","09:00",new int[0]).HasValue,"empty weekdays rejected");s.Start(now,now.AddSeconds(10),"종료");Check(s.Tick(now,false)==1,"short warning");Check(s.Tick(now.AddSeconds(10),false)==2,"short due");Check(SettingsStore.UnprotectToken(SettingsStore.ProtectToken("safe-test-token"))=="safe-test-token","per-user token protection roundtrip");Check(Translations.Data.Count>80,"translation catalog loads");Check(Translations.Get("예약 시작","English")=="Schedule","English UI translation");Check(Translations.Get("안전 데모","English")=="Safe demo","safe demo title translation");Check(Translations.Get("일정","日本語")=="スケジュール","schedule tab Japanese translation");Check(Translations.Get("보호 · 시스템","简体中文")=="保护 · 系统","safety tab Chinese translation");Check(Translations.Get("프로필 · 기록","English")=="Profiles · history","history tab English translation");Check(Translations.Get("원격 · 언어","日本語")=="リモート・言語","remote tab Japanese translation");Check(MainForm.Canonical("Sleep")=="절전","English sleep action mapping");Check(MainForm.Canonical("休眠")=="최대 절전","Chinese hibernate action mapping");Check(MainForm.Canonical("Shut down")=="종료","English shutdown action mapping");string originalSettingsPath=SettingsStore.DirectoryPath;string testSettingsPath=Path.Combine(Path.GetTempPath(),"WindowsTimerSelfTest-"+Guid.NewGuid().ToString("N"));try{SettingsStore.DirectoryPath=testSettingsPath;AppSettings stored=new AppSettings();stored.RemoteTokens.Add("safe-test-token");SettingsStore.Save(stored);string json=File.ReadAllText(Path.Combine(testSettingsPath,"settings.json"));Check(json.Contains("dpapi:")&&!json.Contains("safe-test-token"),"remote token encrypted at rest");Check(SettingsStore.Load().RemoteTokens.Count==1&&SettingsStore.Load().RemoteTokens[0]=="safe-test-token","encrypted remote token settings roundtrip");}finally{SettingsStore.DirectoryPath=originalSettingsPath;if(testSettingsPath.StartsWith(Path.GetTempPath(),StringComparison.OrdinalIgnoreCase)&&Directory.Exists(testSettingsPath))Directory.Delete(testSettingsPath,true);}File.WriteAllText(Path.Combine(AppDomain.CurrentDomain.BaseDirectory,"test-results.txt"),"PASS: "+checks+" scheduling, guard, recurrence, localization, and token-storage checks. No shutdown commands executed.\r\n");return 0;}catch(Exception ex){File.WriteAllText(Path.Combine(AppDomain.CurrentDomain.BaseDirectory,"test-results.txt"),"FAIL after "+checks+" checks: "+ex);return 1;}}
  }
 }

diff --git a/AssemblyInfo.cs b/AssemblyInfo.cs
@@ -4,5 +4,5 @@ using System.Reflection;
 [assembly: AssemblyCompany("Lebi")]
 [assembly: AssemblyProduct("윈도우 타이머")]
 [assembly: AssemblyCopyright("Copyright © Lebi")]
-[assembly: AssemblyVersion("1.1.0.0")]
-[assembly: AssemblyFileVersion("1.1.0.0")]
+[assembly: AssemblyVersion("1.1.1.0")]
+[assembly: AssemblyFileVersion("1.1.1.0")]

diff --git a/CHANGELOG.md b/CHANGELOG.md
@@ -1,5 +1,26 @@
 # WindowsTimer Release History
 
+## v1.1.1 — 2026-10-24
+
+### 한국어
+- 고급 설정을 **일정**, **보호 · 시스템**, **프로필 · 기록**, **원격 · 언어** 네 개 탭으로 나눠 한 번에 한 종류만 표시합니다.
+- 영문 등 번역된 버튼 문구가 두 줄로 갈라지지 않도록 한 줄 표시와 버튼 너비에 맞춘 글자 크기를 적용했습니다.
+- 같은 탭의 설정 카드 높이를 가장 큰 카드에 맞춰 아래쪽 선이 가지런히 정렬되도록 했습니다.
+
+### English
+- Organized Advanced settings into four tabs: **Schedule**, **Safety · system**, **Profiles · history**, and **Remote · language**. Each tab shows one category at a time.
+- Kept translated button labels on one line and fit their text to the available button width.
+- Matched card heights within each tab so their bottom edges line up.
+
+### 日本語
+- 詳細設定を **スケジュール**、**保護・システム**、**プロファイル・履歴**、**リモート・言語** の4つのタブに整理し、一度に1種類の設定を表示します。
+- 翻訳後のボタンラベルが折り返されないようにし、ボタン幅に合わせて文字サイズを調整します。
+- 同じタブ内のカードの高さをそろえ、下端がきれいに並ぶようにしました。
+
+### 简体中文
+- 将高级设置整理为 **日程**、**保护 · 系统**、**配置 · 记录**、**远程 · 语言** 四个标签，每次只显示一类设置。
+- 翻译后的按钮文字保持单行，并根据按钮宽度调整字号。
+- 统一每个标签页内卡片的高度，使卡片底边对齐。
 ## v1.1.0 — 2026-10-24
 
 ### 한국어

diff --git a/release-notes-v1.1.1.md b/release-notes-v1.1.1.md
@@ -1,0 +1,23 @@
+# WindowsTimer Release History
+
+## v1.1.1 — 2026-10-24
+
+### 한국어
+- 고급 설정을 **일정**, **보호 · 시스템**, **프로필 · 기록**, **원격 · 언어** 네 개 탭으로 나눠 한 번에 한 종류만 표시합니다.
+- 영문 등 번역된 버튼 문구가 두 줄로 갈라지지 않도록 한 줄 표시와 버튼 너비에 맞춘 글자 크기를 적용했습니다.
+- 같은 탭의 설정 카드 높이를 가장 큰 카드에 맞춰 아래쪽 선이 가지런히 정렬되도록 했습니다.
+
+### English
+- Organized Advanced settings into four tabs: **Schedule**, **Safety · system**, **Profiles · history**, and **Remote · language**. Each tab shows one category at a time.
+- Kept translated button labels on one line and fit their text to the available button width.
+- Matched card heights within each tab so their bottom edges line up.
+
+### 日本語
+- 詳細設定を **スケジュール**、**保護・システム**、**プロファイル・履歴**、**リモート・言語** の4つのタブに整理し、一度に1種類の設定を表示します。
+- 翻訳後のボタンラベルが折り返されないようにし、ボタン幅に合わせて文字サイズを調整します。
+- 同じタブ内のカードの高さをそろえ、下端がきれいに並ぶようにしました。
+
+### 简体中文
+- 将高级设置整理为 **日程**、**保护 · 系统**、**配置 · 记录**、**远程 · 语言** 四个标签，每次只显示一类设置。
+- 翻译后的按钮文字保持单行，并根据按钮宽度调整字号。
+- 统一每个标签页内卡片的高度，使卡片底边对齐。

diff --git a/PLAN.md b/PLAN.md
@@ -3,11 +3,11 @@
 ## 제품명
 - 한국어: 윈도우 타이머
 - 실행 파일 / GitHub 저장소: WindowsTimer / windows-timer
-- 현재 버전: 1.1.0
+- 현재 버전: 1.1.1
 
 ## 화면 방향
 - 기존 메인 예약 화면과 크림·브라운·테라코타 UI를 유지한다.
-- 추가 기능은 왼쪽 **고급** 메뉴에서 설정한다.
+- 추가 기능은 왼쪽 **고급** 메뉴의 네 개 탭(일정, 보호·시스템, 프로필·기록, 원격·언어)으로 나눈다.
 - Noto Sans KR, 앱 아이콘, 4개 언어의 UI를 사용한다.
 
 ## 기능
@@ -29,4 +29,4 @@
 ## 배포
 - .NET Framework 4.x WinForms standalone EXE
 - GitHub 저장소 `cybereun/windows-timer`, private visibility
-- `v1.1.0`: EXE, ZIP, SHA-256 manifest, 4개 언어 릴리스 노트
+- `v1.1.1`: EXE, ZIP, SHA-256 manifest, 4개 언어 릴리스 노트
